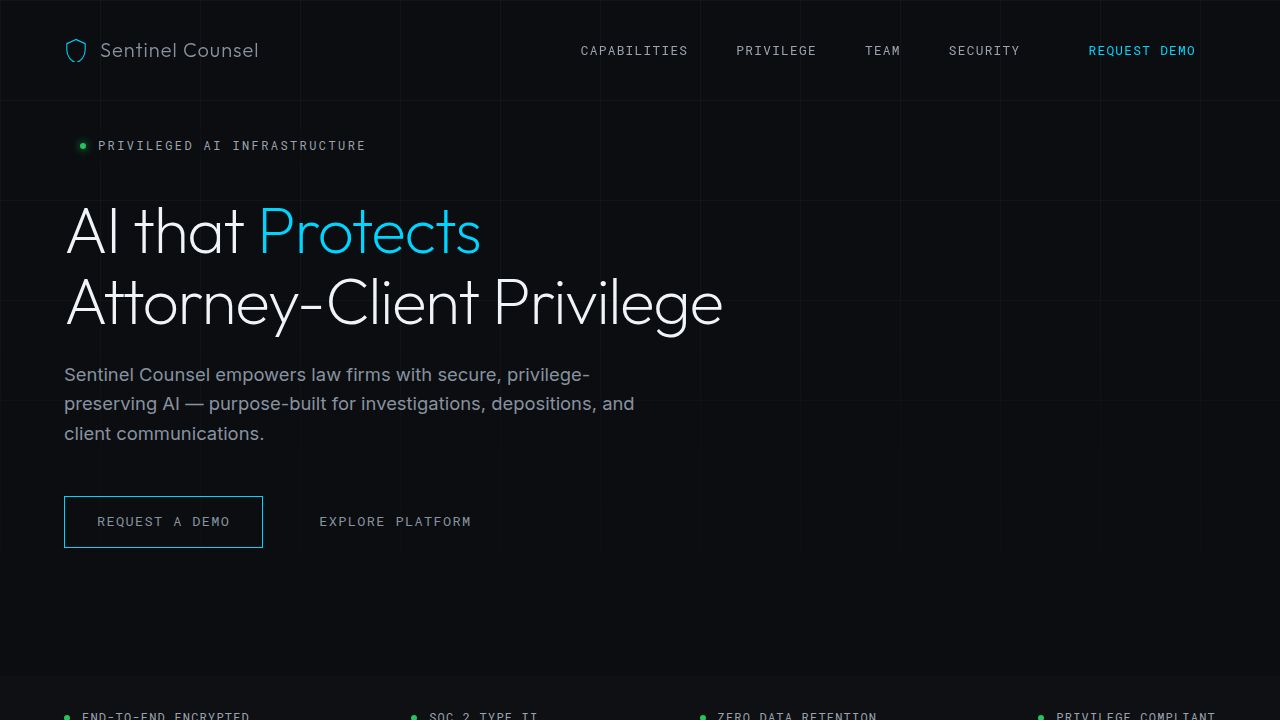
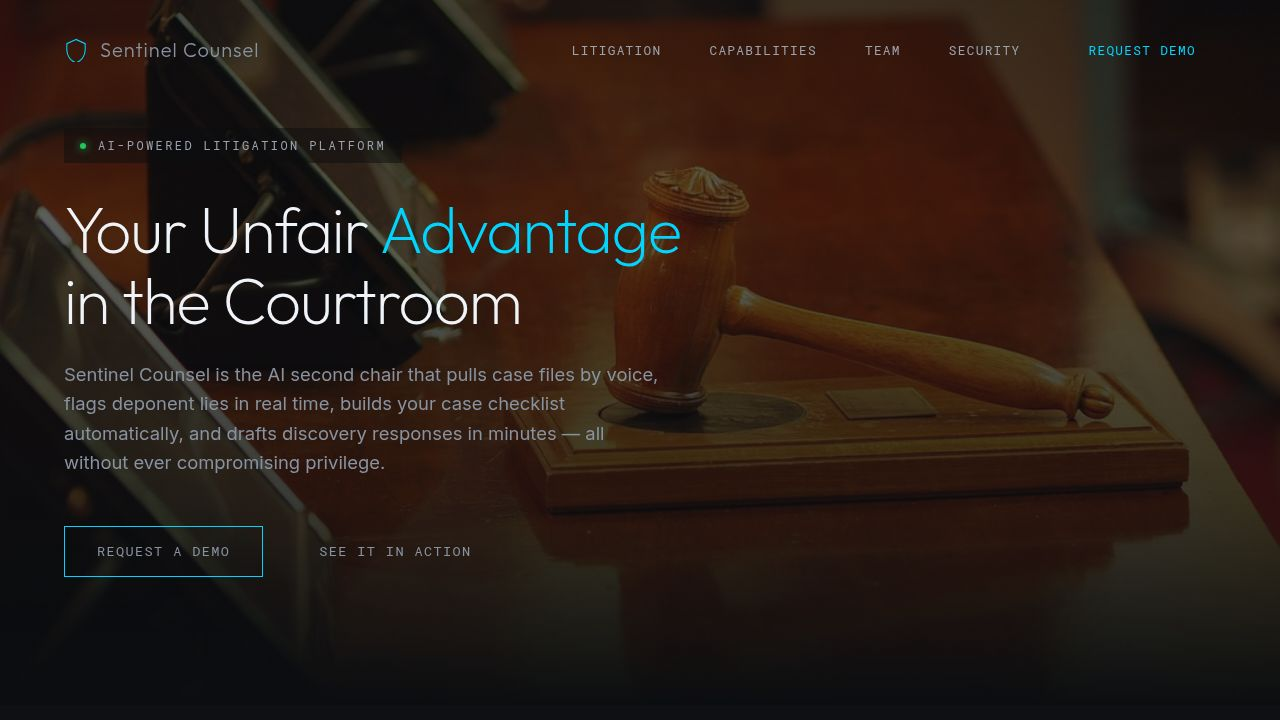
Add animated background with legal imagery to the hero section
Replace static hero background with an animated slideshow featuring legal scenes (courtroom, deposition, client meetings) using a Ken Burns effect and dark overlay.

Replit-Commit-Author: Agent
Replit-Commit-Session-Id: a7d96290-15e5-4b0f-8cee-4c9f3b031d97
Replit-Commit-Checkpoint-Type: full_checkpoint
Replit-Commit-Event-Id: 19e50d0c-1bf8-4882-b642-4b62ab345bec
Replit-Commit-Screenshot-Url: https://storage.googleapis.com/screenshot-production-us-central1/e82fdfba-1f14-41a0-9ec4-0d4b042e97af/a7d96290-15e5-4b0f-8cee-4c9f3b031d97/NfWjwFB
Replit-Helium-Checkpoint-Created: true

diff --git a/artifacts/sentinel-counsel/src/styles/homepage.css b/artifacts/sentinel-counsel/src/styles/homepage.css
@@ -167,19 +167,62 @@
   position: relative;
 }
 
-.hero-grid-bg {
+.hero-slideshow {
   position: absolute;
   top: 0;
   left: 0;
   right: 0;
   bottom: 0;
-  background-image: linear-gradient(rgba(255, 255, 255, 0.03) 1px, transparent 1px),
-    linear-gradient(90deg, rgba(255, 255, 255, 0.03) 1px, transparent 1px);
-  background-size: 100px 100px;
   z-index: 0;
-  pointer-events: none;
-  mask-image: linear-gradient(to bottom, black 40%, transparent 100%);
-  -webkit-mask-image: linear-gradient(to bottom, black 40%, transparent 100%);
+  overflow: hidden;
+}
+
+.hero-slide {
+  position: absolute;
+  top: -10%;
+  left: -10%;
+  width: 120%;
+  height: 120%;
+  background-size: cover;
+  background-position: center;
+  opacity: 0;
+  transition: opacity 2s ease-in-out;
+  will-change: opacity, transform;
+  animation: none;
+}
+
+.hero-slide.active {
+  opacity: 1;
+  animation: hero-kenburns 12s ease-in-out forwards;
+}
+
+.hero-slide.prev {
+  opacity: 0;
+}
+
+@keyframes hero-kenburns {
+  0% {
+    transform: scale(1) translate(0, 0);
+  }
+  100% {
+    transform: scale(1.08) translate(-1%, -1%);
+  }
+}
+
+.hero-overlay {
+  position: absolute;
+  top: 0;
+  left: 0;
+  right: 0;
+  bottom: 0;
+  background: linear-gradient(
+    to bottom,
+    rgba(11, 13, 16, 0.75) 0%,
+    rgba(11, 13, 16, 0.65) 30%,
+    rgba(11, 13, 16, 0.80) 70%,
+    rgba(11, 13, 16, 1) 100%
+  );
+  z-index: 1;
 }
 
 .hero-content {

diff --git a/artifacts/sentinel-counsel/src/pages/HomePage.tsx b/artifacts/sentinel-counsel/src/pages/HomePage.tsx
@@ -1,13 +1,30 @@
-import { useEffect, useState } from "react";
+import { useEffect, useState, useCallback } from "react";
 import "@/styles/homepage.css";
+
+const base = import.meta.env.BASE_URL;
+const heroImages = [
+  `${base}images/hero/courtroom.jpg`,
+  `${base}images/hero/deposition-1.jpg`,
+  `${base}images/hero/meeting.jpg`,
+  `${base}images/hero/attorney.jpg`,
+  `${base}images/hero/deposition-2.jpg`,
+];
 
 export default function HomePage() {
   const [scrolled, setScrolled] = useState(false);
+  const [activeSlide, setActiveSlide] = useState(0);
 
   useEffect(() => {
     const handleScroll = () => setScrolled(window.scrollY > 50);
     window.addEventListener("scroll", handleScroll);
     return () => window.removeEventListener("scroll", handleScroll);
+  }, []);
+
+  useEffect(() => {
+    const interval = setInterval(() => {
+      setActiveSlide((prev) => (prev + 1) % heroImages.length);
+    }, 6000);
+    return () => clearInterval(interval);
   }, []);
 
   return (
@@ -29,7 +46,16 @@ export default function HomePage() {
       </nav>
 
       <section className="ice-hero">
-        <div className="hero-grid-bg"></div>
+        <div className="hero-slideshow">
+          {heroImages.map((src, i) => (
+            <div
+              key={src}
+              className={`hero-slide ${i === activeSlide ? "active" : ""} ${i === (activeSlide - 1 + heroImages.length) % heroImages.length ? "prev" : ""}`}
+              style={{ backgroundImage: `url(${src})` }}
+            />
+          ))}
+          <div className="hero-overlay"></div>
+        </div>
         <div className="hero-content">
           <div className="hero-badge">
             AI-Powered Litigation Platform